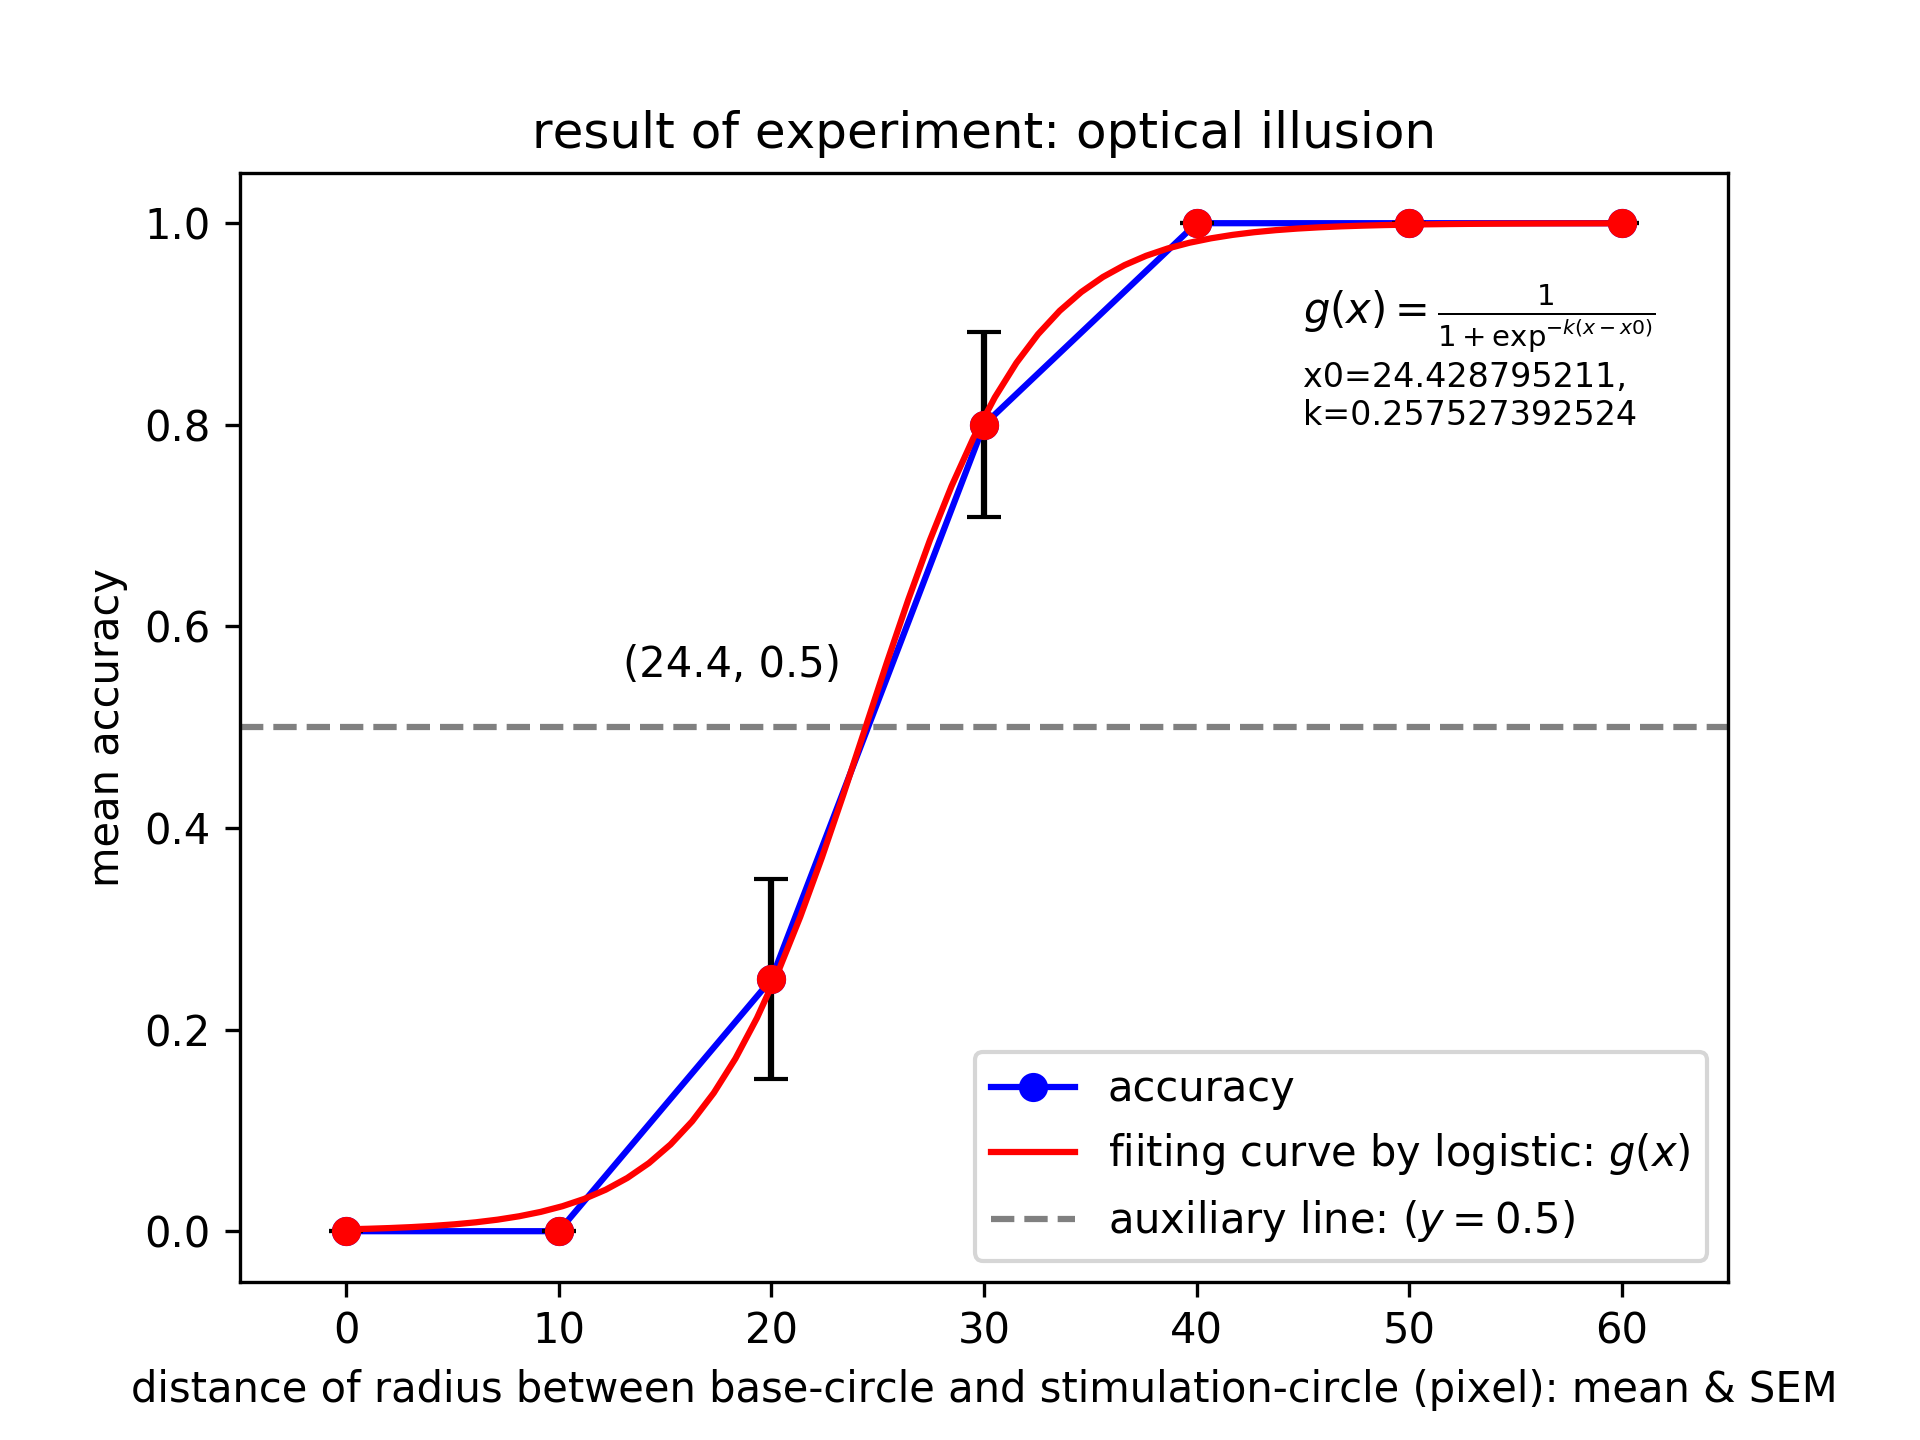
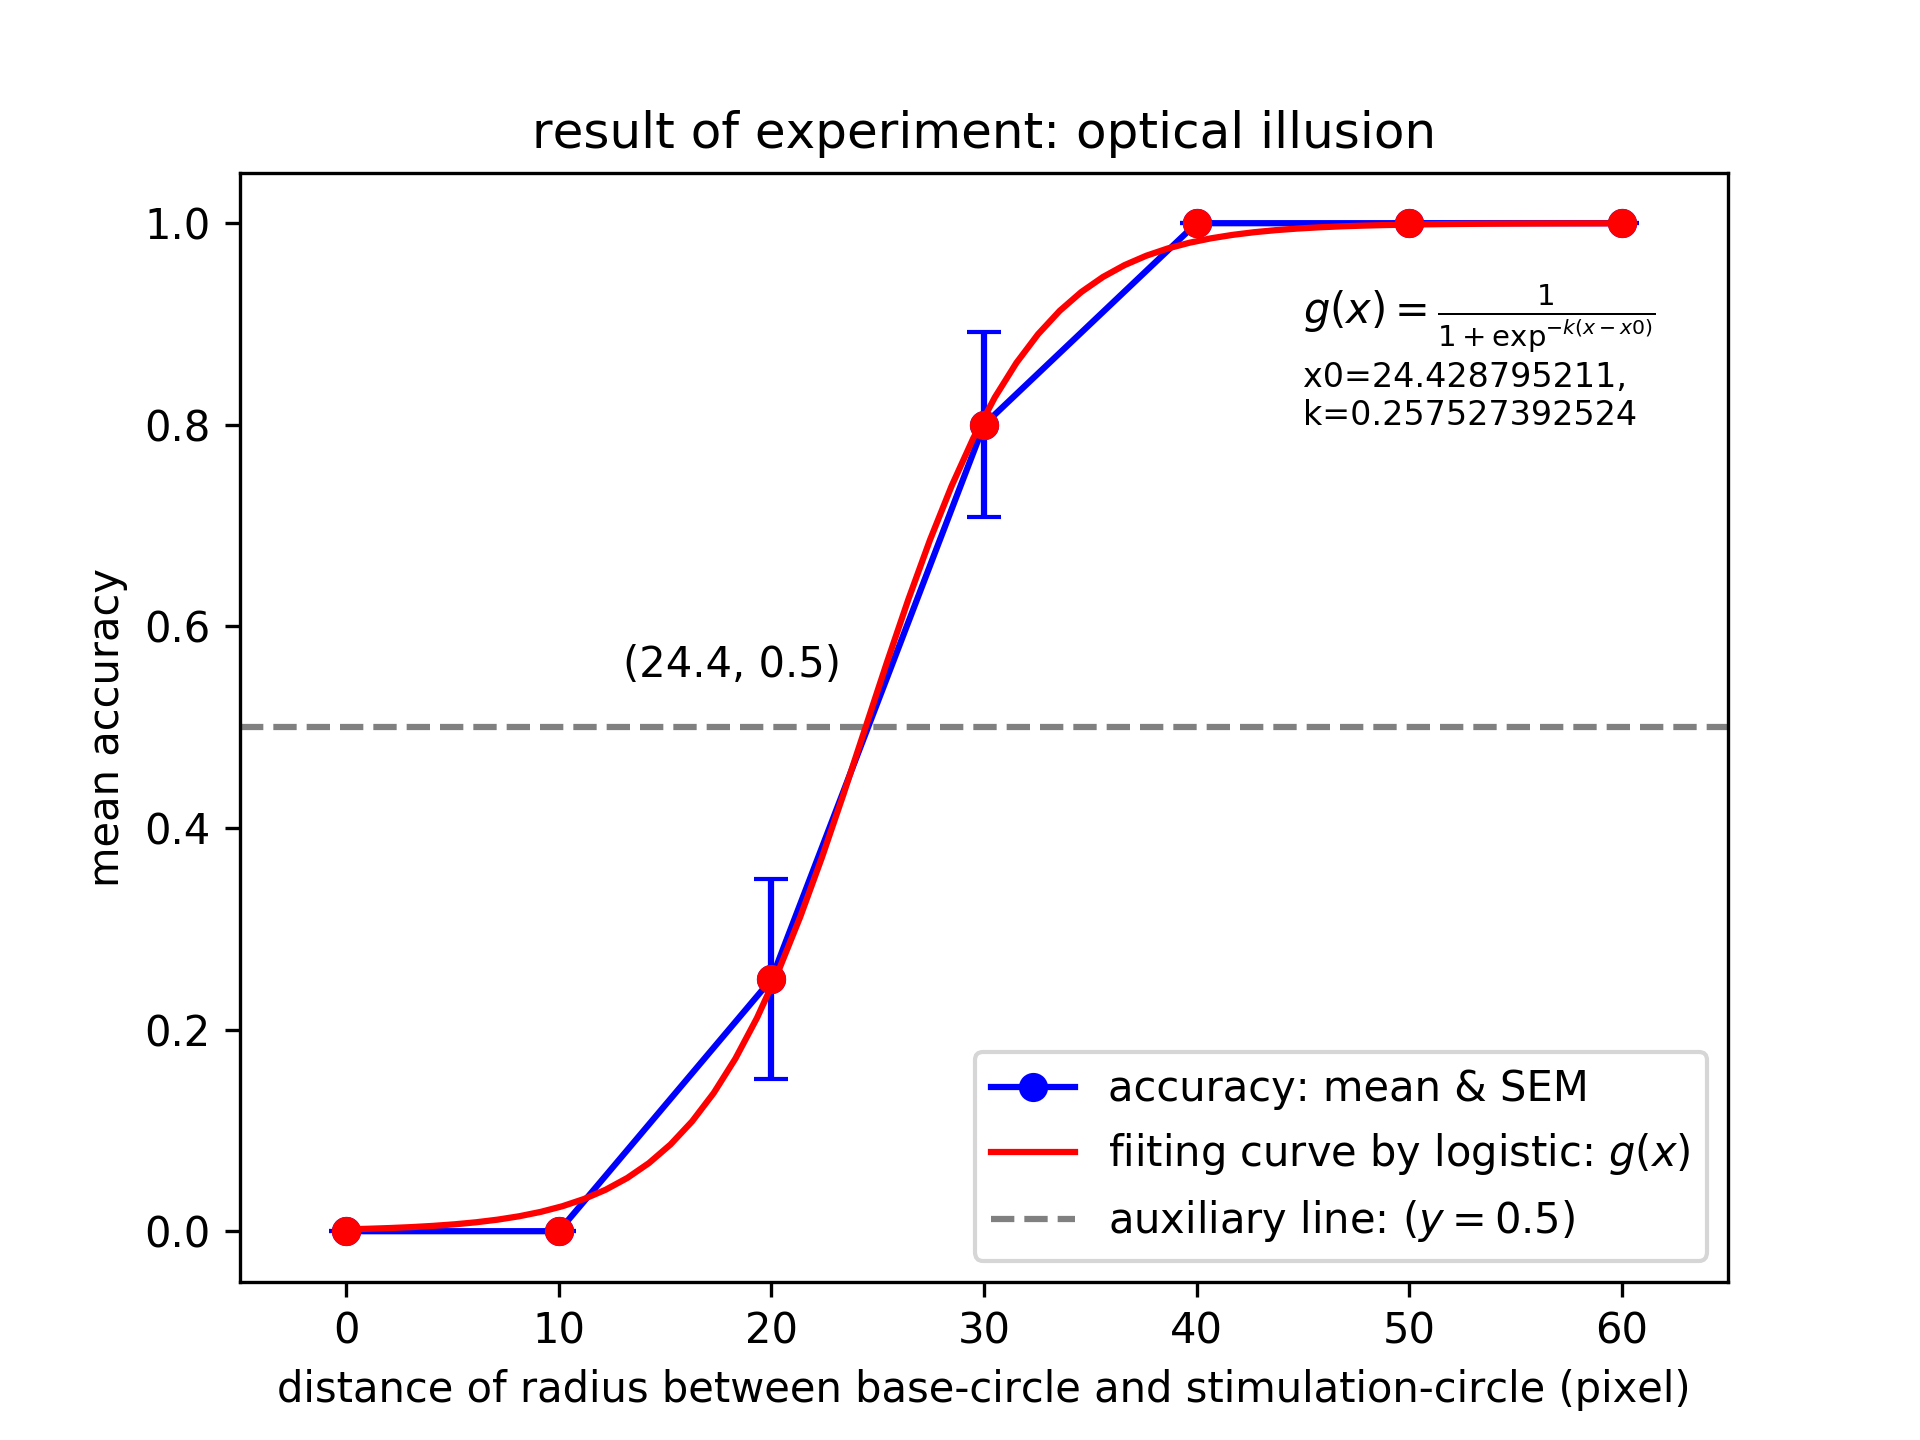
optical illusion

diff --git a/visual_information_2/graph.py b/visual_information_2/graph.py
@@ -10,7 +10,7 @@ def logistic(x, x0, k):
 
 # distance of radius between base-circle and stimulation-circle (pixel)
 x = np.array([0, 10, 20, 30, 40, 50, 60], dtype=np.uint64)
-xlabel = "distance of radius between base-circle and stimulation-circle (pixel): mean & SEM"
+xlabel = "distance of radius between base-circle and stimulation-circle (pixel)"
 
 # accuracy
 y = np.array([0.00, 0.00, 0.25, 0.80, 1.00, 1.00, 1.00], dtype=np.float64)
@@ -47,8 +47,8 @@ for i in search_x :
 
 plt.figure()
 
-plt.plot(x, y, marker="o", color="blue", label="accuracy")
-plt.errorbar(x,y,yerr=sem,fmt='ro',ecolor='black', capsize=4)
+plt.plot(x, y, marker="o", color="blue", label="accuracy: mean & SEM")
+plt.errorbar(x,y,yerr=sem,fmt='ro',ecolor='blue', capsize=4)
 
 # drawing auxiliary line: y=0.5
 plt.hlines([0.5], xmin, xmax, color="gray", linestyles='dashed', label="auxiliary line: "+r"($y=0.5$)")
